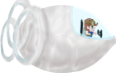
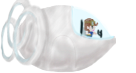
ring added, shipgirl shifted

diff --git a/Cyclyc/ShipGirl/ShipGame.cs b/Cyclyc/ShipGirl/ShipGame.cs
@@ -31,16 +31,17 @@ namespace Cyclyc.ShipGirl
 
         public override void Initialize()
         {
-            AddBackground("space background", 0.05f);
-            AddBackground("stars", 0.06f);
-            AddBackground("zodiac", 0.07f);
-            AddBackground("nebula", 0.075f);
-            AddBackground("galaxy", 0.08f);
+            AddBackground("space background", -0.05f);
+            AddBackground("galaxy", -0.1f);
+            AddBackground("nebula", -0.1f);
+            AddBackground("zodiac", -0.2f);
+            AddBackground("stars", -0.3f);
+
             ship = new Ship(Game);
             ship.Position = new Vector2(30, 30);
             crush = new ShipCircle(Game, ship, "crushRing");
             AddSprite(crush);
-            skim = new ShipCircle(Game, ship, "crushRing");
+            skim = new ShipCircle(Game, ship, "skimRing");
             AddSprite(skim);
             crushRecovery = 0;
             skim.ResizeTo(DefaultSkimRadius, 0);
@@ -59,7 +60,7 @@ namespace Cyclyc.ShipGirl
                 //a random free radius on the left half of the screen
                 Vector2 oldPos = ship.Position;
                 do {
-                    ship.Position = new Vector2((float)(rgen.NextDouble() * 370)+30, (float)(rgen.NextDouble() * 100)+10);
+                    ship.Position = new Vector2(800 - (float)(rgen.NextDouble() * 370)+30, (float)(rgen.NextDouble() * 100)+10);
                 } while(enemyBatch.Collide(ship).Count != 0);
                 Vector2 ret = ship.Position;
                 ship.Position = oldPos;

diff --git a/Cyclyc/Framework/CycBackground.cs b/Cyclyc/Framework/CycBackground.cs
@@ -15,7 +15,7 @@ using Cyclyc.Framework;
 
 namespace Cyclyc.Framework
 {
-    class CycBackground : CycSprite
+    public class CycBackground : CycSprite
     {
         protected float scrollSpeed;
         public float ScrollSpeed
@@ -27,7 +27,7 @@ namespace Cyclyc.Framework
         public CycBackground(Game1 game, string img)
             : base(game)
         {
-            ScaleFactor = 2.0f;
+            ScaleFactor = 1.0f;
             assetName = img;
             scrollSpeed = 1.0f;
         }
@@ -65,7 +65,7 @@ namespace Cyclyc.Framework
             dstRect.Width = (int)(VisualWidth * ScaleFactor);
             dstRect.Height = (int)(VisualHeight * ScaleFactor);
             SpriteBatch.Draw(spriteSheet, dstRect, srcRect, Color.White);
-            dstRect.X = (int)(dstRect.X + dstRect.Width);
+            dstRect.X = (int)(dstRect.X + ((scrollSpeed > 0) ? dstRect.Width : -dstRect.Width));
             SpriteBatch.Draw(spriteSheet, dstRect, srcRect, Color.White);
         }
     }

diff --git a/Cyclyc/Framework/CycGame.cs b/Cyclyc/Framework/CycGame.cs
@@ -57,7 +57,8 @@ namespace Cyclyc.Framework
             get { return grade; }
         }
 
-        List<CycBackground> backgrounds;
+        protected List<CycBackground> backgrounds;
+        public List<CycBackground> Backgrounds { get { return backgrounds; } }
         List<Challenge>[] challenges;
         List<Challenge> otherPlayerChallenges;
 
@@ -85,7 +86,7 @@ namespace Cyclyc.Framework
             otherPlayerChallenges = new List<Challenge>();
         }
 
-        protected void AddBackground(string bgName, float bgSpeed)
+        protected virtual void AddBackground(string bgName, float bgSpeed)
         {
             CycBackground bg = new CycBackground(Game, bgName);
             bg.ScrollSpeed = bgSpeed;

diff --git a/Cyclyc/JetpackGirl/JetpackGirl.cs b/Cyclyc/JetpackGirl/JetpackGirl.cs
@@ -73,7 +73,7 @@ namespace Cyclyc.JetpackGirl
             animations["default"] = 
                 new Animation(FrameSequence(0, 2), timings, true);
             animations["death"] =
-                new Animation(FrameSequence(0, 2), timings, true);
+                new Animation(FrameSequence(8, 1), TimingSequence(1,1), false);
             animations["run"] = 
                 new Animation(FrameSequence(0, 2), timings, true);
             animations["run-attacking"] = 

diff --git a/Cyclyc/JetpackGirl/JetGame.cs b/Cyclyc/JetpackGirl/JetGame.cs
@@ -31,6 +31,12 @@ namespace Cyclyc.JetpackGirl
             spiders = new SpiderEnemyPool(this);
         }
 
+        protected override void AddBackground(string n, float spd)
+        {
+            base.AddBackground(n, spd);
+            Backgrounds.Last().ScaleFactor = 2.0f;
+        }
+
         public override void Initialize()
         {
             AddBackground("pixel city sky", 0.1f);

diff --git a/Cyclyc/ShipGirl/Ship.cs b/Cyclyc/ShipGirl/Ship.cs
@@ -33,6 +33,7 @@ namespace Cyclyc.ShipGirl
             Dying = false;
             collisionStyle = CollisionStyle.Circle;
             AddAnimation("death", new int[] { 0 }, new int[] { 5 }, true);
+            FlipImage = true;
         }
 
         public Vector2 StartPosition { get; set; }
